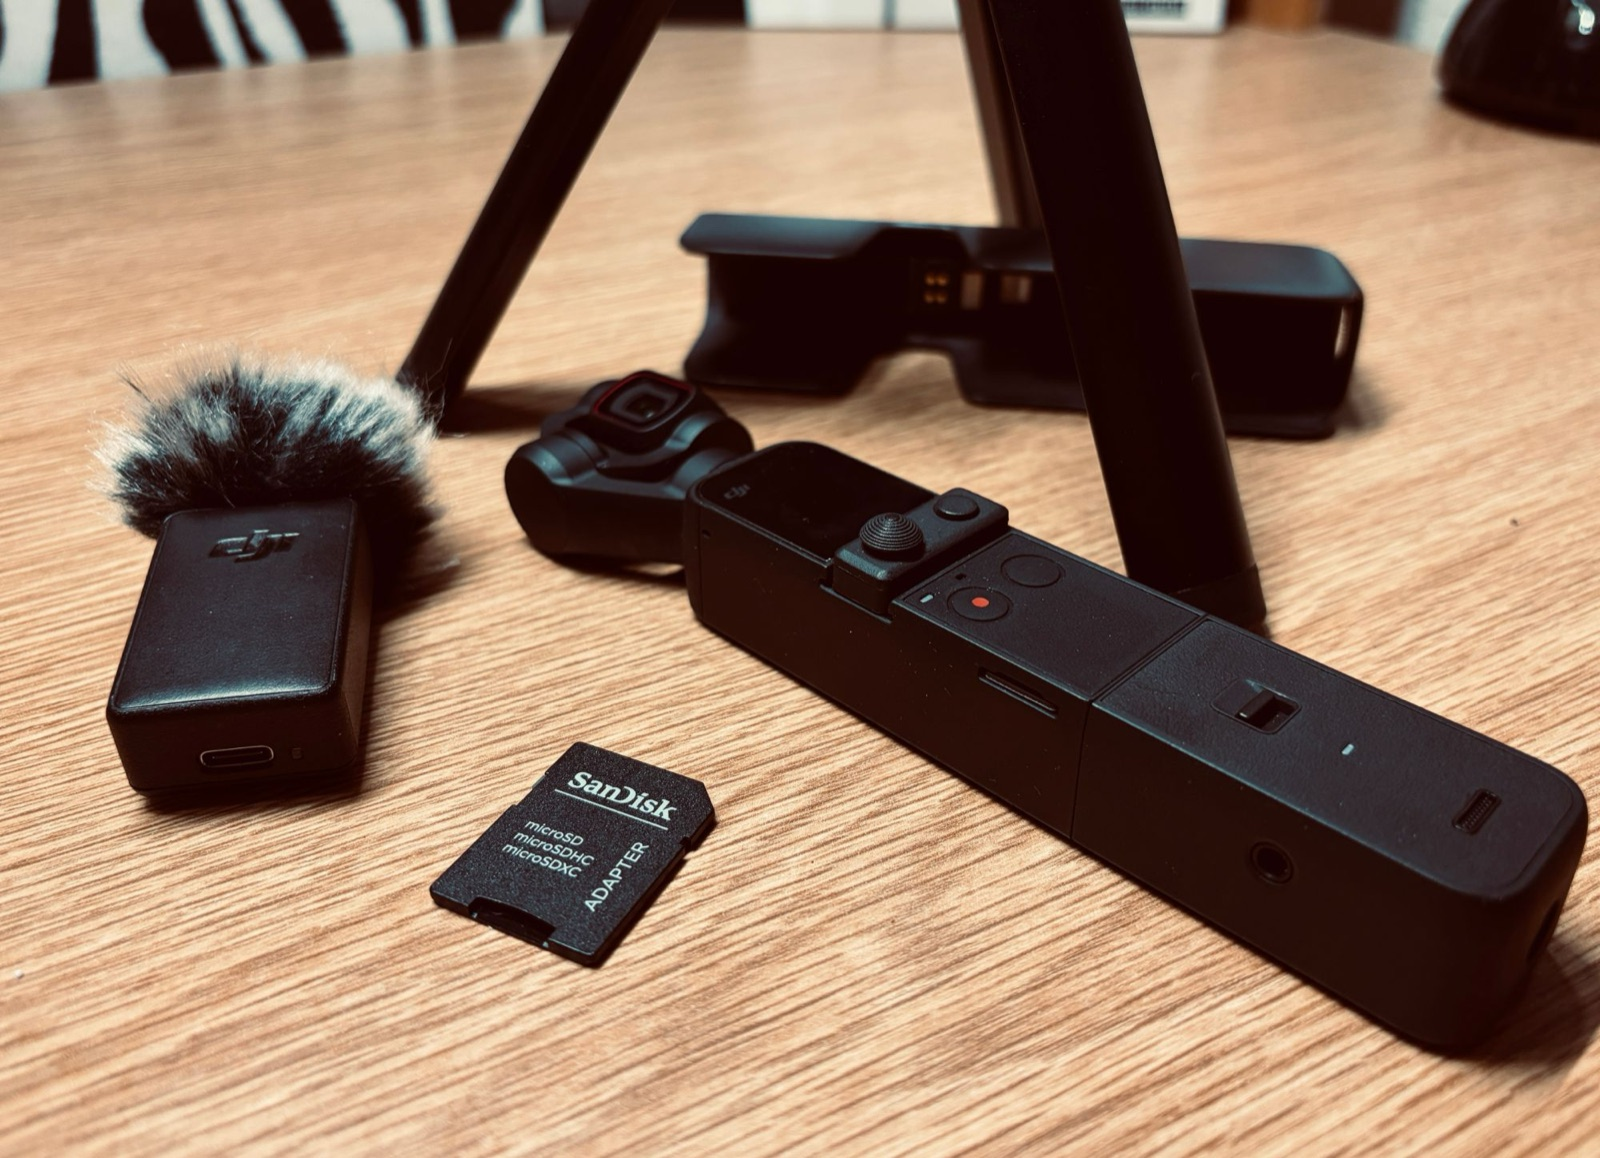
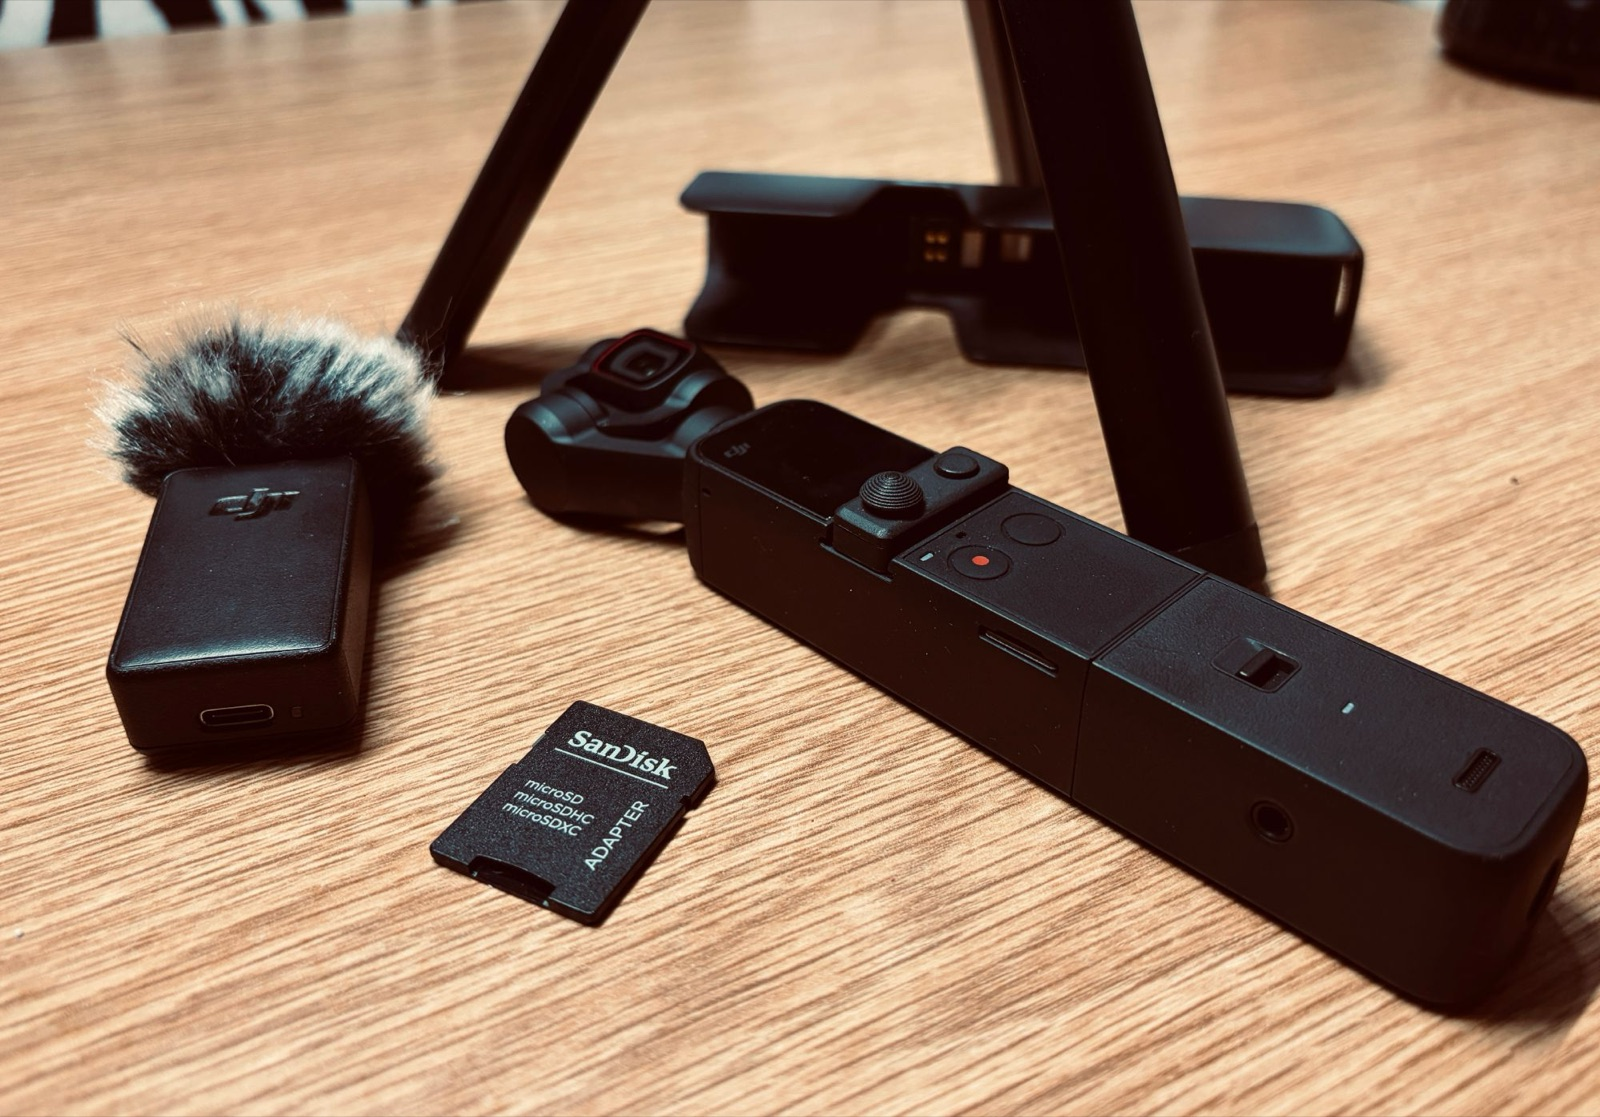
Cropped kit photo, Gmail contact

diff --git a/index.html b/index.html
@@ -177,7 +177,7 @@ footer small{color:var(--muted)}
 <footer id="contact"><div class="wrap">
   <div>
     <h2>Say hello</h2>
-    <a class="mail" href="mailto:rez012@ucsd.edu">rez012@ucsd.edu</a>
+    <a class="mail" href="mailto:rqzhou7@gmail.com">rqzhou7@gmail.com</a>
   </div>
   <small>Made with DaVinci Resolve &amp; a DJI Osmo Pocket 2. Otherwise a phone.</small>
 </div></footer>
